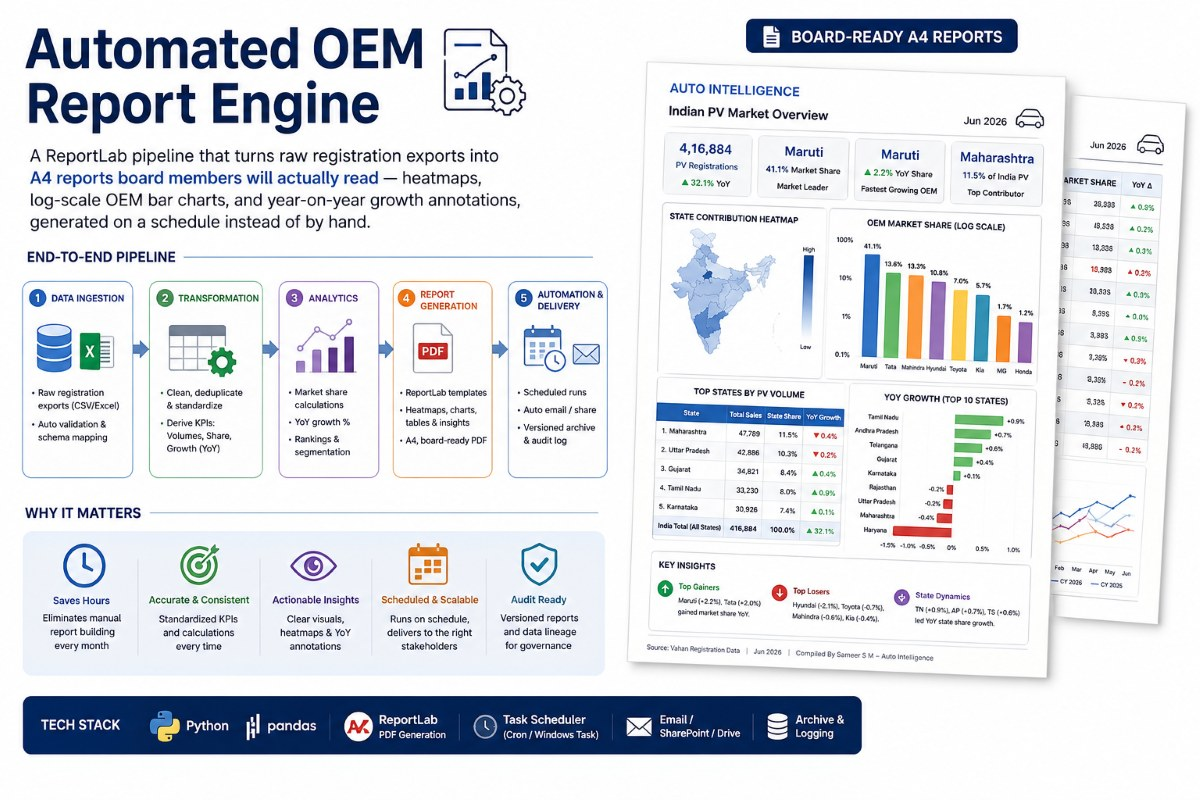
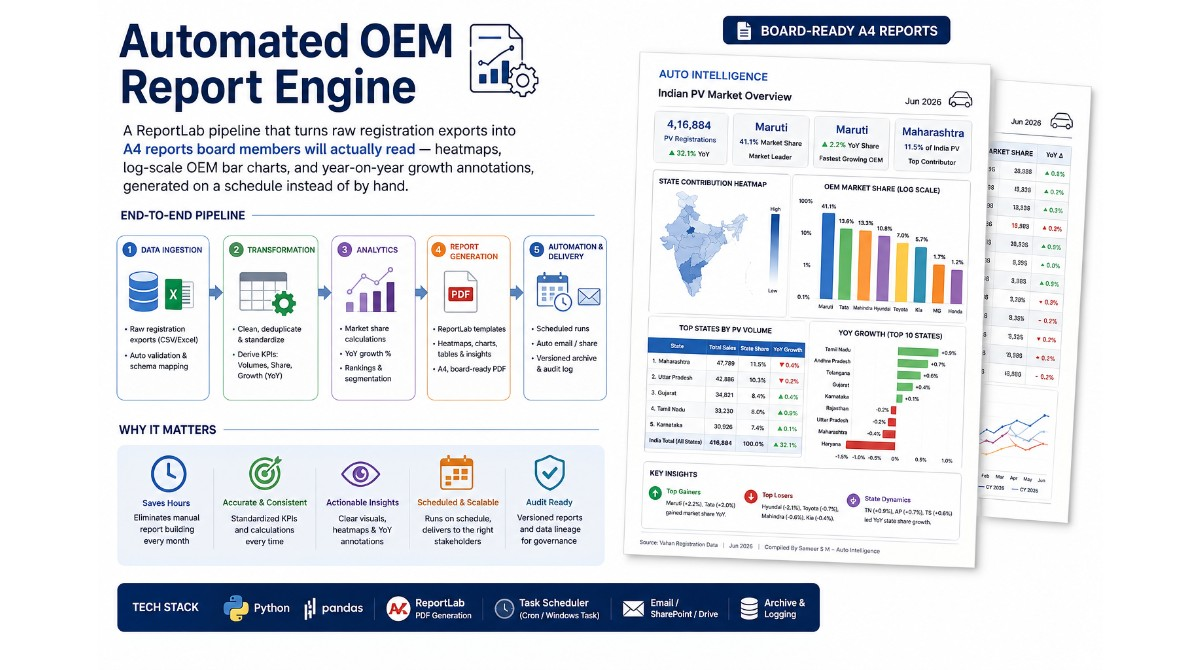
Match OEM featured image size to the other two (1200x670)

Changed region(s): [[0.0, 0.0, 1.0, 0.9552], [0.0, 0.6269, 0.4933, 0.8358]]

diff --git a/index.html b/index.html
@@ -223,7 +223,7 @@
           </div>
         </div>
         <a class="featured-image" href="https://github.com/cercit" target="_blank" rel="noopener" aria-label="Automated OEM Report Engine" tabindex="-1">
-          <div class="img-wrap"><img src="assets/featured-2.jpg" width="1200" height="800" alt="Automated OEM Report Engine concept — a reporting pipeline producing board-ready charts"></div>
+          <div class="img-wrap"><img src="assets/featured-2.jpg" width="1200" height="670" alt="Automated OEM Report Engine concept — a reporting pipeline producing board-ready charts"></div>
         </a>
       </li>
 
